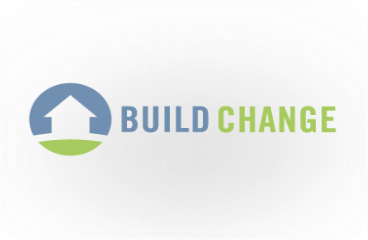
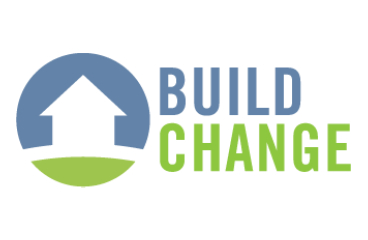
Crowdsource: user can contribute without logging in (can edit and link those images when they wish to login) + Removed Unused images + Updated Home page image and css + version bump

Changed region(s): [[0.0299, 0.2042, 0.9565, 0.7875]]

diff --git a/main/templates/index.html b/main/templates/index.html
@@ -13,11 +13,11 @@
 		<link rel="stylesheet" href="{% static 'home/assets/css/main.css' %}" />
 		<noscript><link rel="stylesheet" href="{% static 'home/assets/css/noscript.css' %}" /></noscript>
 	</head>
-	<body class="is-preload">
+	<body>
 
 		<!-- Header -->
 			<section id="header">
-				<div class="inner">
+				<div class="inner fade">
 					<span class="icon solid major jumpy fa-cloud"></span>
 					<h1>Hi, I'm <strong>ISAC -SIMO</strong>, your<br />Intelligent Supervision Assistant for Construction </h1>
 					<p>I provide instant quality assurance feedback on<br />
@@ -90,24 +90,24 @@
 					</header>
 					<p>Check out these links for more information on ISAC-SIMO.</p>
 					<div class="row gtr-150">
-						<div class="col-4 col-12-medium">
-							<span class="image fit"><iframe style="width: 100%;height: 220px;display: block;" src="https://www.youtube.com/embed/145ytpzG3I8"></iframe></span>
+						<div class="col-4 col-12-medium card">
+							<span class="image fit"><iframe style="width: 100%;height: 240px;display: block;border: 1px solid #ddd;" src="https://www.youtube.com/embed/145ytpzG3I8"></iframe></span>
 							<h3>Our promotional video</h3>
 							<p> Learn about the story behind ISAC-SIMO and get a glimpse of the app in action.</p>
 							<ul class="actions special">
 								<li><a href="https://www.youtube.com/watch?v=145ytpzG3I8" class="button">More</a></li>
 							</ul>
 						</div>
-						<div class="col-4 col-12-medium">
-							<span class="image fit"><img src="{% static 'home/images/pic03.png' %}" alt="" /></span>
+						<div class="col-4 col-12-medium card">
+							<span class="image fit"><img style="border: 1px solid #ddd;height: 240px;object-fit: contain;" src="{% static 'home/images/pic03.jpg' %}" alt="" /></span>
 							<h3> About Build Change</h3>
 							<p>Check out website for more information on Build Change’s work in disaster resilience.</p>
 							<ul class="actions special">
 								<li><a href="https://buildchange.org/" class="button">More</a></li>
 							</ul>
 						</div>
-						<div class="col-4 col-12-medium">
-							<span class="image fit"><img src="{% static 'home/images/pic04.jpg' %}" alt="" /></span>
+						<div class="col-4 col-12-medium card">
+							<span class="image fit"><img style="border: 1px solid #ddd;height: 240px;object-fit: contain;" src="{% static 'home/images/pic04.jpg' %}" alt="" /></span>
 							<h3>How to get involved</h3>
 							<p>If you want to contribute/support us. Please checkout the link below.</p>
 							<ul class="actions special">
@@ -134,6 +134,8 @@
 						{% endif %}
 					</ul>
 					<a href="{% url 'images.test' %}" class="button wide try-now-btn">Try Now</a>
+					<br/>
+					<a href="{% url 'crowdsource' %}" class="button wide try-now-btn" style="margin-top: 10px !important;">Contribute to Crowdsource</a>
 				</div>
 			</section>
 
@@ -458,11 +460,11 @@ print 'It took ' + i + ' iterations to sort the deck.';</code></pre>
 		<!-- Footer -->
 			<section id="footer">
 				<ul class="icons">
-					<li><a href="#" class="icon brands alt fa-twitter"><span class="label">Twitter</span></a></li>
-					<li><a href="#" class="icon brands alt fa-facebook-f"><span class="label">Facebook</span></a></li>
-					<li><a href="#" class="icon brands alt fa-instagram"><span class="label">Instagram</span></a></li>
-					<li><a href="#" class="icon brands alt fa-github"><span class="label">GitHub</span></a></li>
-					<li><a href="#" class="icon solid alt fa-envelope"><span class="label">Email</span></a></li>
+					{% comment %} <li><a href="#" class="icon brands alt fa-twitter"><span class="label">Twitter</span></a></li> {% endcomment %}
+					{% comment %} <li><a href="#" class="icon brands alt fa-facebook-f"><span class="label">Facebook</span></a></li> {% endcomment %}
+					{% comment %} <li><a href="#" class="icon brands alt fa-instagram"><span class="label">Instagram</span></a></li> {% endcomment %}
+					<li><a href="https://github.com/ISAC-SIMO/" target="_blank" rel="noopener noreferrer" class="icon brands alt fa-github"><span class="label">GitHub</span></a></li>
+					{% comment %} <li><a href="#" class="icon solid alt fa-envelope"><span class="label">Email</span></a></li> {% endcomment %}
 				</ul>
 				<ul class="copyright">
 					<li>&copy; Build Change</li><li>Project Support By: IBM</li><li><a href="/docs/" target="_blank">Documentation</a></li>

diff --git a/crowdsource/templates/crowdsource_images.html b/crowdsource/templates/crowdsource_images.html
@@ -92,8 +92,17 @@
           <div class="col-sm-12 col-md-8">
             <div class="card">
                 <div class="card-body">
-                  {% if request.session.images %}
-
+                  {% if request.session.crowdsource_images %}
+                    <div style="display:flex;flex-wrap:wrap;">
+                      {% for img in request.session.crowdsource_images %}
+                        <div style="width: 200px;height:200px;margin-right:8px;position: relative;border:1px solid #ddd;display:flex;">
+                          <img src="{{img.file}}" alt="UID-{{img.id}}" style="width: 200px;object-fit: contain;">
+                          <i style="position:absolute;right:7px;top:7px;cursor:pointer;" title="Edit" class="fa fa-edit" onclick="editForm('{{img.id}}','{{img.id}}','{{img.file}}','{{img.object_type}}','{{img.image_type}}','{{img.username}}')"></i>
+                        </div>
+                      {% endfor %}
+                    </div>
+                    <br/>
+                    <h5><a href="{% url 'login' %}"><b>Login</b></a> to link these images to your account.</h5>
                   {% else %}
                     <h5>You have Zero Crowdsource Contributions.</h5>
                     <p>You can <a href="{% url 'login' %}"><b>Login</b></a> to view and manage your images.</p>
@@ -294,7 +303,6 @@
           $('#id_username').val(my_username);
         });
 
-        {% if user.is_authenticated %}
         function editForm(id, name, url, object_type, image_type, username){
           $('#id_field').val(id);
           $('#id_object_type').val(object_type).trigger('change');
@@ -327,6 +335,5 @@
           $('#id_file').val('');
           $('#id_username').val(my_username);
         }
-        {% endif %}
     </script>
 {% endblock script %}

diff --git a/static/home/assets/css/main.css b/static/home/assets/css/main.css
@@ -73,6 +73,9 @@ input, select, textarea {
 }
 
 /* Basic */
+	:root {
+		--selection-bg: #3297FD;
+	}
 
 	html {
 		box-sizing: border-box;
@@ -103,6 +106,17 @@ input, select, textarea {
 		font-size: 16pt;
 		font-weight: 300;
 		line-height: 1.65em;
+	}
+
+	.fade {
+		opacity: 0;
+		transform: translate(0 , 20px);
+		animation: fade 1.5s ease forwards;
+	}
+
+	@keyframes fade {
+		0%{opacity: 0; transform: translate(0 , 20px);}
+		100%{opacity: 1; transform: translate(0 , 0);}
 	}
 
 	a {
@@ -3550,4 +3564,17 @@ body::-webkit-scrollbar-thumb{background-color:#2c3b41;border:2px solid #dadada;
 	ul.actions:not(.fixed) {
 			margin-bottom: 1em !important;
 	}
+}
+
+.card {
+	display: flex;
+	flex-flow: column;
+	justify-content: flex-end;
+	align-items: center;
+	overflow: hidden;
+}
+
+::selection {
+	background: #3297FD;
+	background: var(--selection-bg);;
 }

diff --git a/main/templates/master/base.html b/main/templates/master/base.html
@@ -96,7 +96,7 @@
         <!-- Messages Dropdown Menu -->
         {% if user.is_authenticated %}
         <li class="nav-item">
-        <a class="nav-link d-none d-md-block">V 1.2.1</a>
+        <a class="nav-link d-none d-md-block">V 1.3.0</a>
         </li>
             {% get_current_language as LANGUAGE_CODE %}
             <li class="nav-item" style="display: flex">
@@ -517,7 +517,7 @@
       <strong>&copy; <script>document.write(new Date().getFullYear())</script> <a href="https://www.isac-simo.net/"> ISAC-SIMO </a>| <a href="https://buildchange.org/"> Build Change </a>| <a href="https://www.ibm.com/"> IBM</a> |</strong>
       All rights reserved.
       <div class="float-right d-none d-sm-inline-block">
-        <b>Version</b> 1.2.1
+        <b>Version</b> 1.3.0
       </div>
     </footer>
 

diff --git a/static/home/assets/js/main.js b/static/home/assets/js/main.js
@@ -27,6 +27,23 @@
 		});
 
 	// Scrolly.
-		$('.scrolly').scrolly();
+	$('.scrolly').scrolly();
+
+	/****************************************************************/
+	// SELECTION BG COLOR
+	// SELECT SOME TEXT, THEN CLICK Backspace/Delete Button FOR FUN
+	/****************************************************************/
+	var i = 0;
+	var int = false;
+	window.addEventListener('keydown', function(event) {
+		var key = event.key;
+		if (key === "Backspace" || key === "Delete") {
+			if(int) {clearInterval(int)}
+			int = setInterval(function() {
+				var color = "#" + ((1<<24)*Math.random() | 0).toString(16);
+				document.querySelector(':root').style.setProperty('--selection-bg', 'hsl(' + ++i + ', 70%, 50%)');
+			}, 50);
+		}
+	});
 
 })(jQuery);

diff --git a/main/templates/master/blank.html b/main/templates/master/blank.html
@@ -111,7 +111,7 @@
       <strong>&copy; <script>document.write(new Date().getFullYear())</script> <a href="https://www.isac-simo.net/"> ISAC-SIMO </a>| <a href="https://buildchange.org/"> Build Change </a>| <a href="https://www.ibm.com/"> IBM</a> |</strong>
       All rights reserved.
       <div class="float-right d-none d-sm-inline-block">
-        <b>Version</b> 1.2.1
+        <b>Version</b> 1.3.0
       </div>
     </footer>
   </div>

diff --git a/crowdsource/views.py b/crowdsource/views.py
@@ -14,6 +14,7 @@ from rest_framework import generics, mixins, viewsets
 from rest_framework.permissions import AllowAny, IsAdminUser, IsAuthenticated
 from .serializers import CrowdsourceSerializer
 from rest_framework.response import Response
+import uuid
 
 # View All Crowdsource Images + Update/Create
 
@@ -55,17 +56,36 @@ def crowdsource_images(request):
                 if(is_admin_or_project_admin(request.user)):
                     crowdsource_image = Crowdsource.objects.filter(
                         id=request.POST.get('id')).get()
-                else:
+                elif request.user.is_authenticated:
                     crowdsource_image = Crowdsource.objects.filter(
                         created_by=request.user).filter(id=request.POST.get('id')).get()
+                else:
+                    crowdsource_images = request.session.get('crowdsource_images', [])
+                    crowdsource_image = False
+                    for img in crowdsource_images:
+                        if str(img.get('id')) == request.POST.get('id'):
+                            crowdsource_image = Crowdsource.objects.filter(id=request.POST.get('id')).get()
+                    if not crowdsource_image:
+                        messages.error(request, "Invalid Crowdsource Image attempted to edit.")
+                        return redirect("crowdsource")
 
                 form = CrowdsourceForm(
                     request.POST or None, instance=crowdsource_image)
                 old_object_key = crowdsource_image.bucket_key()
+                crowdsource_images = request.session.get('crowdsource_images', [])
                 if form.is_valid():
                     instance = form.save(commit=False)
+                    if not instance.username:
+                        if not request.user.is_authenticated:
+                            instance.username = "Anonymous User - " + uuid.uuid4().hex[:6].upper()
                     instance.save()
-                    if old_object_key != instance.bucket_key():
+
+                    for idx, val in enumerate(crowdsource_images):
+                        if str(val.get("id")) == str(instance.id):
+                            crowdsource_images[idx] = {'id': instance.id, 'file': instance.file.url, 'object_type': instance.object_type, 'image_type': instance.image_type, 'username': instance.username}
+                    request.session['crowdsource_images'] = crowdsource_images
+                    
+                    if request.user.is_authenticated and old_object_key != instance.bucket_key():
                         move_object(instance.bucket_key(), old_object_key)
                     messages.success(
                         request, "Crowdsource Image Updated Successfully")
@@ -74,21 +94,34 @@ def crowdsource_images(request):
                 pass
         else:
             # TODO: FOR NOW LIMIT 5 TOTAL UPLOADS BY SAME USER ( SAME BELOW )
-            if(Crowdsource.objects.filter(created_by=request.user).count() >= 5):
-                messages.error(request, "Currently you can only upload 5 images. More will be enabled later.")
-                return redirect("crowdsource")
+            if request.user.is_authenticated:
+                if(Crowdsource.objects.filter(created_by=request.user).count() >= 5):
+                    messages.error(request, "Currently you can only upload 5 images. More will be enabled later.")
+                    return redirect("crowdsource")
+            else:
+                if(len(request.session.get('crowdsource_images', [])) >= 5):
+                    messages.error(request, "Currently you can only upload 5 images. More will be enabled later.")
+                    return redirect("crowdsource")
 
             # Create
             total = 0
+            crowdsource_images = request.session.get('crowdsource_images', [])
             for _file in request.FILES.getlist('file'):
                 request.FILES['file'] = _file
                 form = CrowdsourceForm(
                     request.POST or None, request.FILES or None)
                 if form.is_valid():
                     instance = form.save(commit=False)
-                    instance.created_by = request.user
+                    if request.user.is_authenticated:
+                        instance.created_by = request.user
+                    else:
+                        instance.username = "Anonymous User - " + uuid.uuid4().hex[:6].upper()
                     instance.save()
-                    upload_object(instance.bucket_key(), instance.filepath())
+                    crowdsource_images.append({'id': instance.id, 'file': instance.file.url, 'object_type': instance.object_type, 'image_type': instance.image_type, 'username': instance.username})
+                    request.session['crowdsource_images'] = crowdsource_images
+
+                    if request.user.is_authenticated:
+                        upload_object(instance.bucket_key(), instance.filepath())
                     total += 1
                     if total >= 5:
                         break; # TODO: FOR NOW LIMIT 5 TOTAL UPLOADS BY SAME USER

diff --git a/main/views.py b/main/views.py
@@ -1,3 +1,4 @@
+from crowdsource.models import Crowdsource
 from datetime import timedelta
 import os
 import subprocess
@@ -138,6 +139,21 @@ def login_user(request):
             if request.POST.get('remember') is not None:    
                 request.session.set_expiry(1209600)
             login(request, user)
+            # CHECK AND LINK CROWDSOURCE CONTRIBUTION TO THIS ACCOUNT
+            crowdsource_images = request.session.get('crowdsource_images', [])
+            crowdsource_images_linked = 0
+            for img in crowdsource_images:
+                if img.get('id'):
+                    crowdsource_image = Crowdsource.objects.filter(id=img.get('id')).get()
+                    if crowdsource_image and not crowdsource_image.created_by_id:
+                        crowdsource_image.created_by_id = user.id
+                        crowdsource_image.username = user.full_name
+                        crowdsource_image.save()
+                        crowdsource_images_linked += 1
+            if crowdsource_images_linked and crowdsource_images_linked > 0:
+                messages.info(request, str(crowdsource_images_linked) + ' Crowdsource Image has been linked to your account.')
+            request.session.pop('crowdsource_images', None)
+
             if request.POST.get('next'): # Go Back to Previous route (e.g. in case was logged out)
                 return HttpResponseRedirect(request.POST.get('next'))
             return redirect('dashboard')
